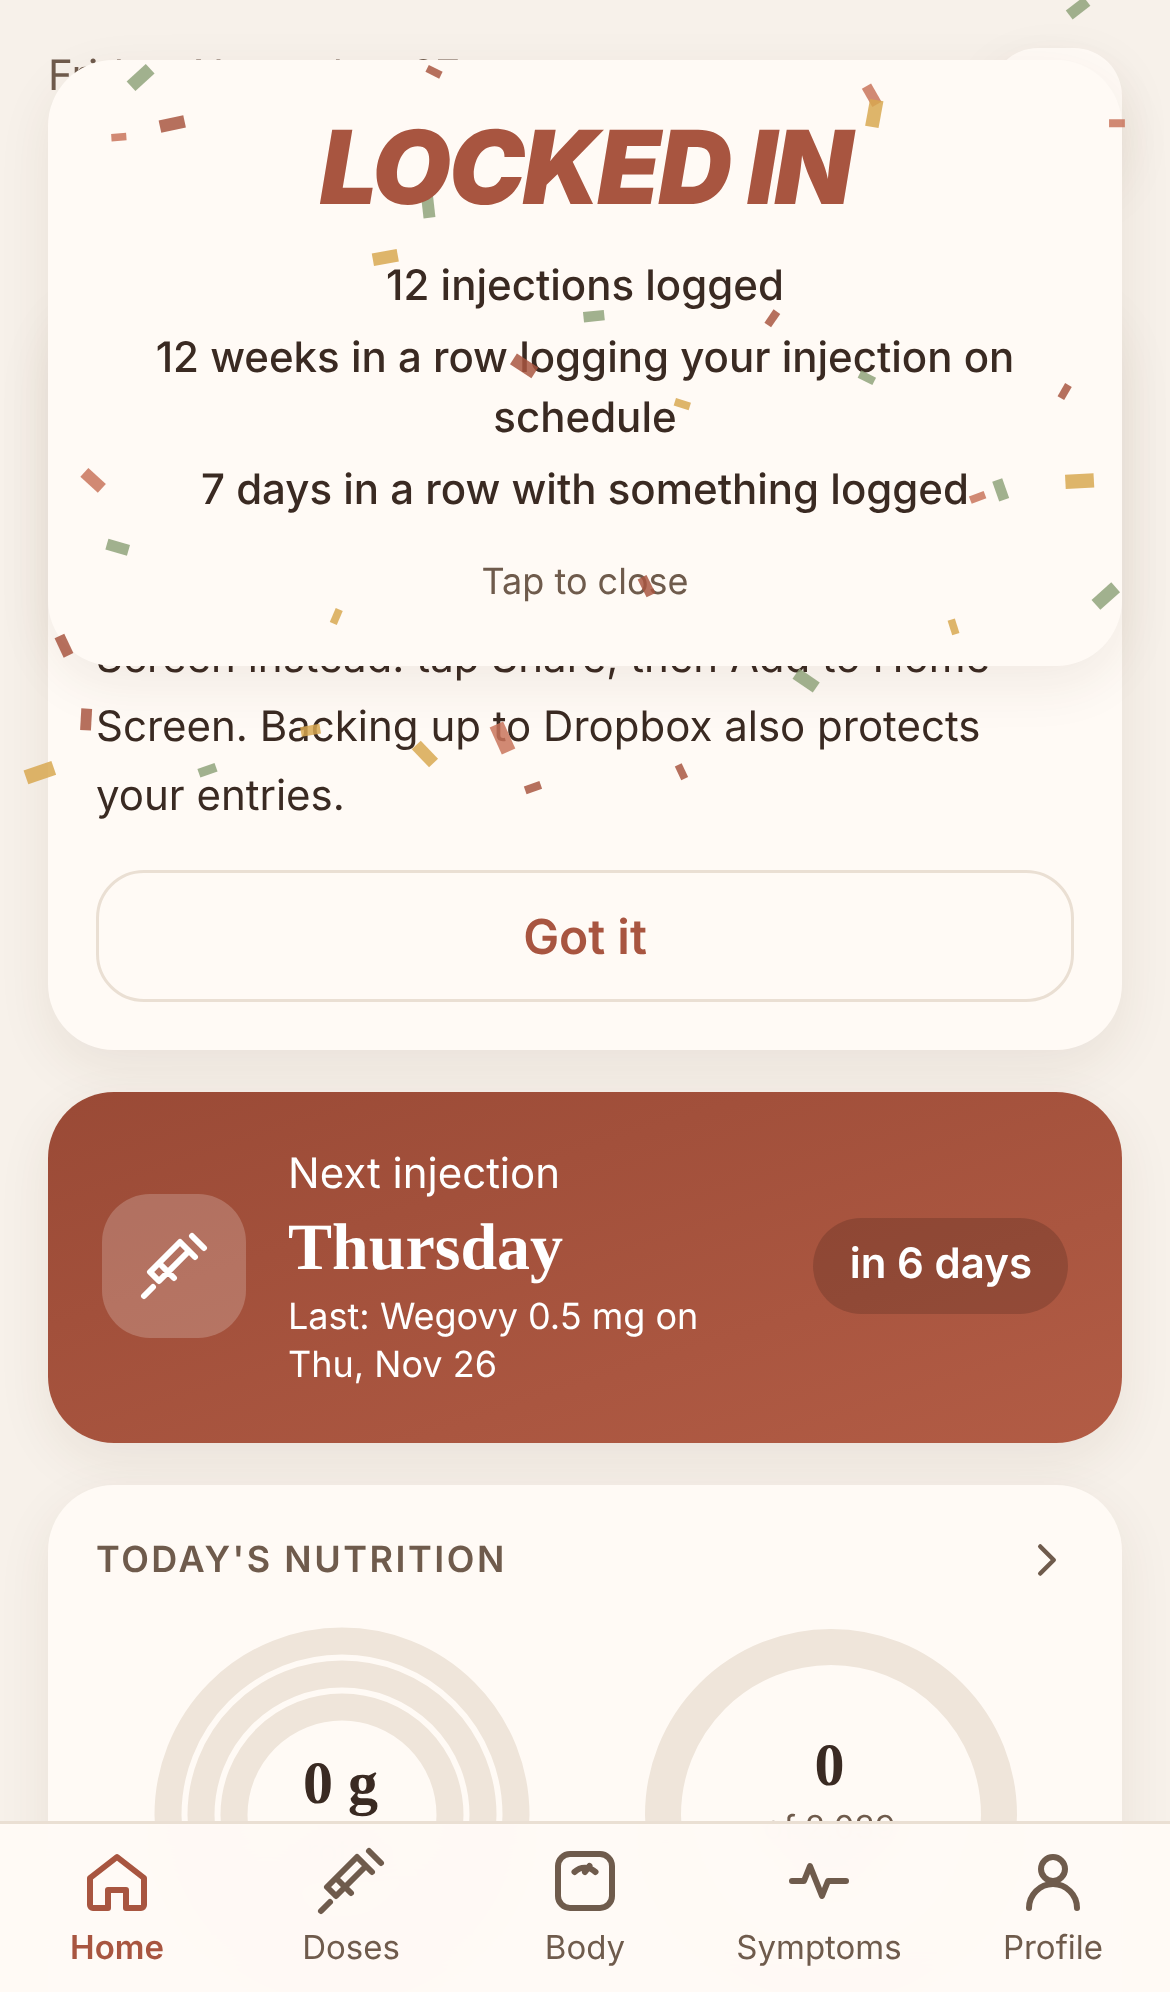
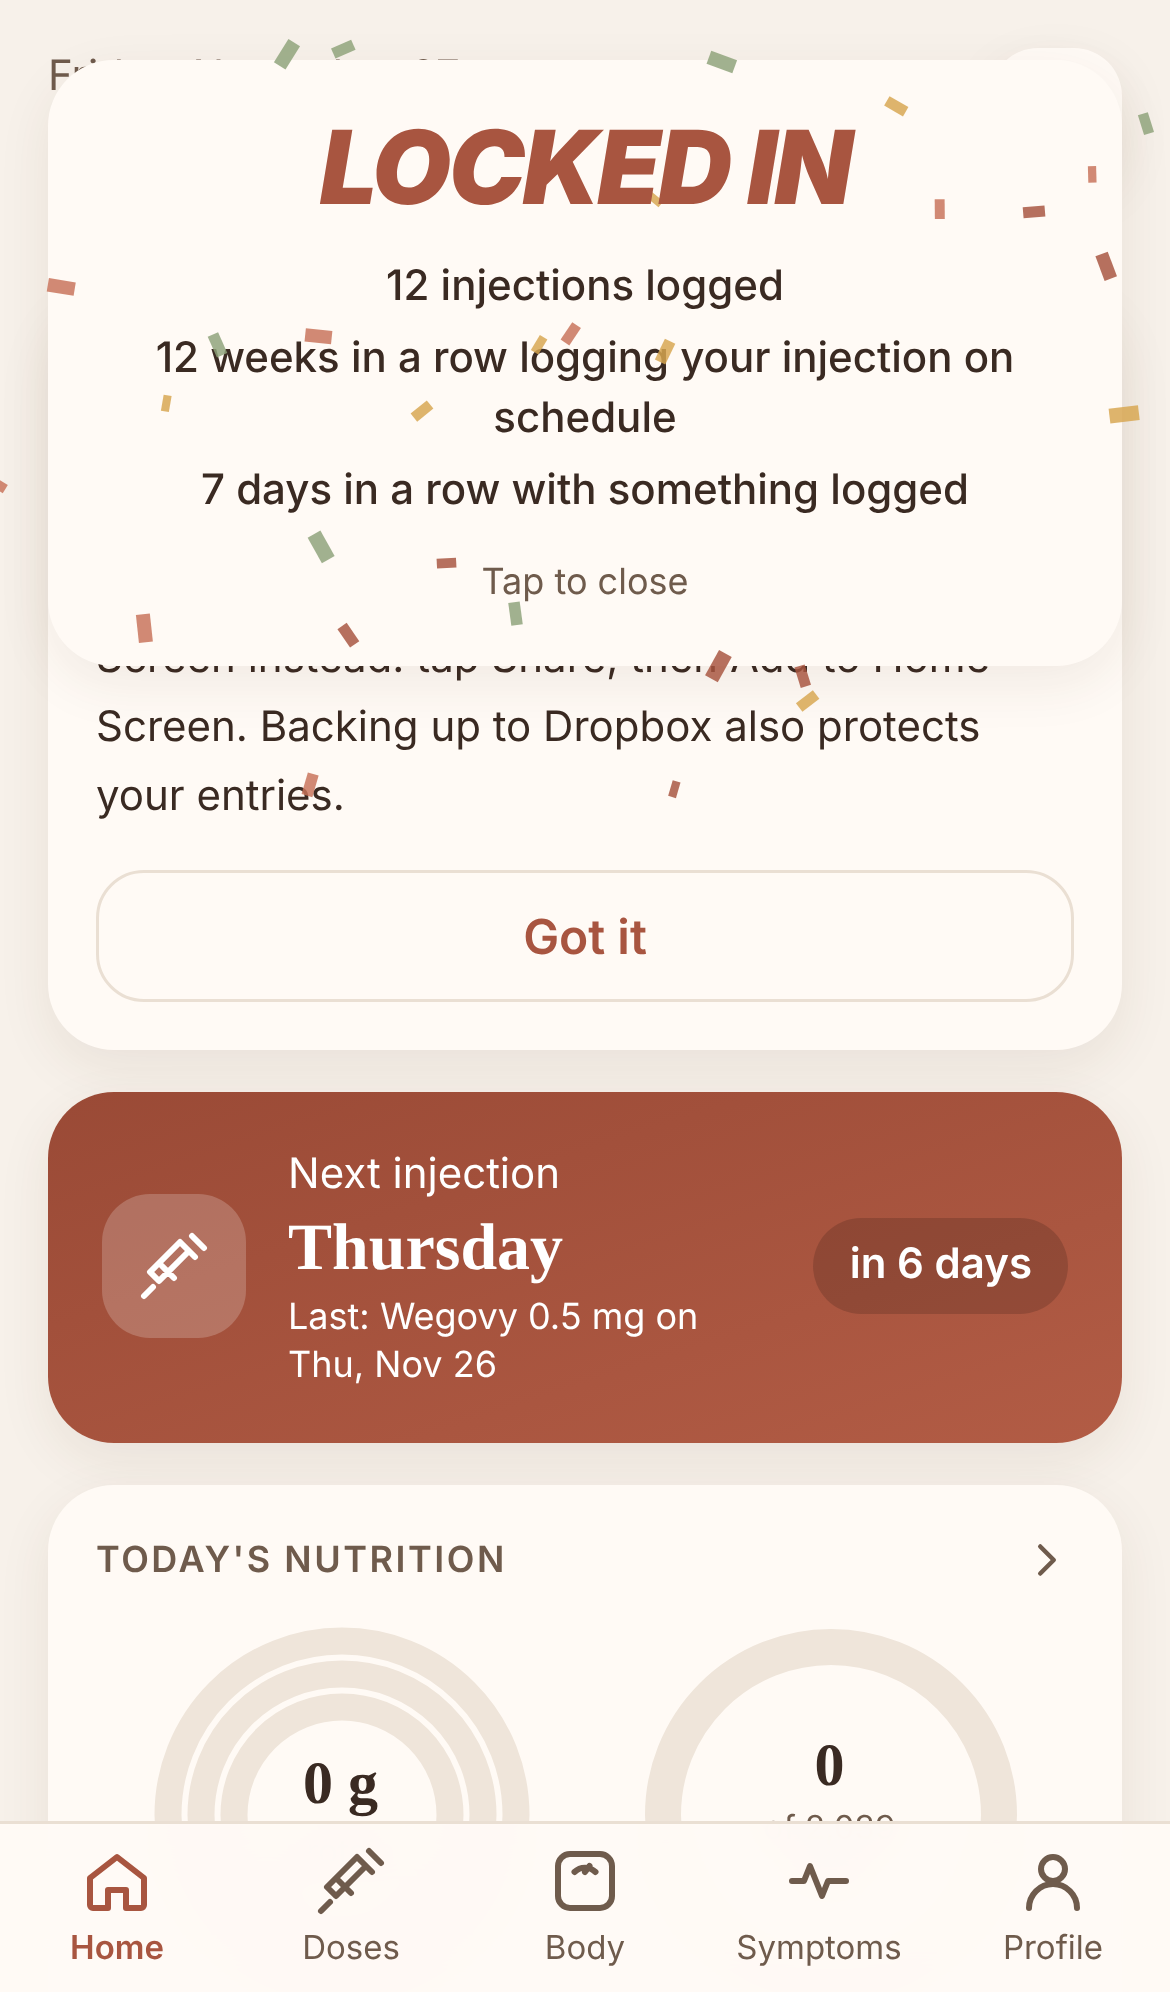
Workflow 12: code review fixes and build notes
Claude-Session: https://claude.ai/code/session_01E8m8svjFKtLT3zDarJmxVH

diff --git a/src/lib/milestoneCheck.ts b/src/lib/milestoneCheck.ts
@@ -2,11 +2,12 @@
 // records it before anything is shown (so nothing shows twice), and returns the lines for the pop-up.
 import { db, type Profile } from '../db/db';
 import { dayKey } from './dates';
-import { capRecords, computeEarned, firstArrivalLines, isRecorded, linesToShow, mergeRecords, titleFor, toRecords, type MilestoneData, type ShowLine } from './milestones';
+import { capRecords, computeEarned, dropEndedRuns, firstArrivalLines, isRecorded, linesToShow, mergeRecords, titleFor, toRecords, type MilestoneData, type ShowLine } from './milestones';
 
 export interface Celebration { title: string; lines: ShowLine[] }
 
 let busy: Promise<unknown> = Promise.resolve();
+let quiet = false; // true while a restore is under way: checks record but never show
 /** One check at a time, so two quick saves can never show the same milestone twice. */
 const serial = <T>(fn: () => Promise<T>): Promise<T> => { const next = busy.then(fn, fn); busy = next.catch(() => undefined); return next; };
 
@@ -32,21 +33,28 @@ async function check(show: boolean, now: Date): Promise<Celebration | null> {
     lines = linesToShow(fresh, profile, weightOff || startChanged);
     record = mergeRecords(profile.milestonesEarned, toRecords(fresh, today));
   }
-  const changes: Partial<Profile> = { milestonesEarned: capRecords(record), milestoneStartKg: profile.startWeightKg };
+  const changes: Partial<Profile> = { milestonesEarned: capRecords(dropEndedRuns(record, earned)), milestoneStartKg: profile.startWeightKg };
   await db.profile.update('me', changes);
-  if (!show || profile.showMilestones === false || !lines.length) return null;
+  if (!show || quiet || profile.showMilestones === false || !lines.length) return null;
   return { title: titleFor(Math.max(...lines.map((l) => l.step))), lines };
 }
 
 /** Checks for new milestones and records them; returns what to show, if anything. Never throws. */
 export const checkMilestones = (now = new Date()): Promise<Celebration | null> => serial(() => check(true, now)).catch(() => null);
 
-/** After a restore: keep this phone's record (merged with the backup's) and record everything the restored data reaches, silently. */
+/** Before a restore replaces the data: no pop-up may show until `afterRestore` has run. */
+export const beforeRestore = () => { quiet = true; };
+
+/** After a restore: keep this phone's record (merged with the backup's) and record everything the restored data reaches, silently. Never throws. */
 export async function afterRestore(deviceRecord: Profile['milestonesEarned']): Promise<void> {
-  await serial(async () => {
-    const p = await db.profile.get('me');
-    if (!p) return;
-    await db.profile.update('me', { milestonesEarned: capRecords(mergeRecords(deviceRecord, p.milestonesEarned ?? [])) });
-    await check(false, new Date());
-  });
+  try {
+    await serial(async () => {
+      const p = await db.profile.get('me');
+      if (!p) return;
+      await db.profile.update('me', { milestonesEarned: capRecords(mergeRecords(deviceRecord, p.milestonesEarned ?? [])) });
+      await check(false, new Date());
+    });
+  } catch { /* the restore itself has worked; milestones catch up at the next check */ } finally {
+    quiet = false;
+  }
 }

diff --git a/src/lib/milestones.test.ts b/src/lib/milestones.test.ts
@@ -1,6 +1,6 @@
 import { describe, expect, it } from 'vitest';
 import { addDays, dayKey, fromDayKey } from './dates';
-import { computeEarned, firstArrivalLines, isRecorded, LADDERS, linesToShow, mergeRecords, milestoneText, monthsSince, stepsUpTo, titleFor, toRecords, type MilestoneData } from './milestones';
+import { computeEarned, dropEndedRuns, firstArrivalLines, isRecorded, LADDERS, linesToShow, mergeRecords, milestoneText, monthsSince, stepsUpTo, titleFor, toRecords, type MilestoneData } from './milestones';
 
 const empty = (): MilestoneData => ({ injections: [], weights: [], symptoms: [], foodLog: [], water: [] });
 const TODAY = '2026-11-27'; // a Friday
@@ -122,6 +122,13 @@ describe('showing', () => {
     d.weights = [{ date: day(0), weightKg: 90 }];
     const e = computeEarned(d, { units: 'metric', startWeightKg: 100 }, TODAY);
     expect(linesToShow(e, {}, true).some((l) => l.series === 'wabs' || l.series === 'wpct')).toBe(false);
+  });
+  it('records from ended streak runs are dropped; totals and the current run stay', () => {
+    const d = empty();
+    d.water = [0, 1, 2].map((n) => ({ date: day(n) }));
+    const earned = computeEarned(d, {}, TODAY);
+    const rec = [{ key: 'days-1', on: day(30) }, { key: 'dstreak-7', on: day(20), run: day(26) }, { key: 'dstreak-3', on: TODAY, run: day(2) }, { key: 'wis-2', on: day(40), run: day(50) }];
+    expect(dropEndedRuns(rec, earned).map((r) => r.key)).toEqual(['days-1', 'dstreak-3']);
   });
   it('merging keeps the earliest date per key and run', () => {
     expect(mergeRecords([{ key: 'inj-1', on: '2026-11-20' }], [{ key: 'inj-1', on: '2026-11-01' }, { key: 'inj-4', on: '2026-11-21' }])).toEqual([

diff --git a/src/lib/milestones.ts b/src/lib/milestones.ts
@@ -146,14 +146,21 @@ export function mergeRecords(a: MilestoneRecord[] = [], b: MilestoneRecord[] = [
   return [...m.values()];
 }
 
-export const MAX_RECORDS = 500;
-/** Keeps the record within its cap: ended streak runs go first, oldest first. */
-export function capRecords(record: MilestoneRecord[]): MilestoneRecord[] {
-  if (record.length <= MAX_RECORDS) return record;
-  const streaky = record.filter((r) => r.run).sort((x, y) => x.on.localeCompare(y.on));
-  const drop = new Set(streaky.slice(0, record.length - MAX_RECORDS));
-  return record.filter((r) => !drop.has(r));
+/** Streak records from runs that have ended are never needed again (a new run earns its steps afresh), so they are dropped. */
+export function dropEndedRuns(record: MilestoneRecord[], earned: Earned[]): MilestoneRecord[] {
+  const runStart = new Map<string, string>();
+  for (const e of earned) if (e.run) runStart.set(e.series, e.run);
+  return record.filter((r) => {
+    if (!r.run) return true;
+    const start = runStart.get(r.key.slice(0, r.key.indexOf('-')));
+    return !!start && r.run >= start;
+  });
 }
+
+export const MAX_RECORDS = 500;
+/** Keeps the record within its cap (backups refuse more): oldest first, never the newest 500. */
+export const capRecords = (record: MilestoneRecord[]): MilestoneRecord[] =>
+  record.length <= MAX_RECORDS ? record : [...record].sort((x, y) => x.on.localeCompare(y.on)).slice(record.length - MAX_RECORDS);
 
 export interface ShowLine { series: SeriesId; n: number; step: number; text: string }
 

diff --git a/src/lib/useMilestones.ts b/src/lib/useMilestones.ts
@@ -11,14 +11,18 @@ import { titleFor } from './milestones';
 export function useMilestones(ready: boolean): [Celebration | null, () => void] {
   const [shown, setShown] = useState<Celebration | null>(null);
   // Changes whenever an injection, weigh-in, symptom, food or water entry is added or removed.
-  const sig = useLiveQuery(async () => (await Promise.all([db.injections.count(), db.weights.count(), db.symptoms.count(), db.foodLog.count(), db.water.count()])).join(','), []);
+  // Also the Profile starting weight, so an edit there is synced (silently) straight away and the next weigh-in can show.
+  const sig = useLiveQuery(async () => [...(await Promise.all([db.injections.count(), db.weights.count(), db.symptoms.count(), db.foodLog.count(), db.water.count()])), (await db.profile.get('me'))?.startWeightKg].join(','), []);
   const run = useCallback(() => {
     void checkMilestones().then((c) => {
       if (!c) return;
       // A pop-up already open gains the new lines (and starts its 5 seconds again).
       setShown((cur) => {
         if (!cur) return c;
-        const lines = [...cur.lines, ...c.lines];
+        // Keep one line per series, the highest.
+        const bySeries = new Map(cur.lines.map((l) => [l.series, l]));
+        for (const l of c.lines) if (!bySeries.has(l.series) || l.n > bySeries.get(l.series)!.n) bySeries.set(l.series, l);
+        const lines = [...bySeries.values()];
         return { title: titleFor(Math.max(...lines.map((l) => l.step))), lines };
       });
     });

diff --git a/src/components/MilestonePopup.tsx b/src/components/MilestonePopup.tsx
@@ -21,13 +21,14 @@ export default function MilestonePopup({ celebration, onClose }: { celebration: 
     <div className={`fixed inset-0 z-50 ${leaving ? 'milestone-leave' : ''}`} onClick={onClose}>
       <canvas ref={canvas} aria-hidden="true" className="pointer-events-none absolute inset-0 size-full" />
       <div className="mx-auto mt-[max(1.25rem,env(safe-area-inset-top))] max-w-md px-4">
-        <div role="status" aria-live="polite" aria-label="Milestone reached" className="milestone-card rounded-card bg-surface p-5 text-center shadow-soft">
+        <div role="status" aria-live="polite" className="milestone-card rounded-card bg-surface p-5 text-center shadow-soft">
+          <p className="sr-only">Milestone reached</p>
           <p className="milestone-title font-sans text-[34px] leading-none font-black tracking-tight text-accent uppercase italic">{celebration.title}</p>
           <ul className="mt-3 space-y-1 text-sm font-medium">
             {celebration.lines.map((l) => <li key={`${l.series}-${l.n}`}>{l.text}</li>)}
           </ul>
           <p className="mt-3 text-xs text-muted">Tap to close</p>
-          <button type="button" className="sr-only" onClick={onClose}>Close</button>
+          <button type="button" className="sr-only focus:not-sr-only focus:mt-2 focus:underline" onClick={onClose}>Close</button>
         </div>
       </div>
     </div>

diff --git a/src/lib/backup/run.ts b/src/lib/backup/run.ts
@@ -1,5 +1,5 @@
 // Backup and restore, tying the pure modules to the phone's database and Dropbox (workflow 10a).
-import { afterRestore } from '../milestoneCheck';
+import { afterRestore, beforeRestore } from '../milestoneCheck';
 import { db, SCHEMA_VERSION, UI_KEYS, type BackupState } from '../../db/db';
 import { deleteFile, downloadFile, DropboxError, listFiles, PKCE_KEY, refreshAccess, revoke, uploadFile, type DropboxFile } from './dropbox';
 import { BackupError, decryptBackup, decryptWithPassword, deriveKey, encryptBackup, keyFits, MAX_FILE_BYTES, PBKDF2_ITERATIONS, randomSalt, readHeader } from './format';
@@ -148,6 +148,7 @@ export async function applyRestore(p: Payload): Promise<void> {
   running = true;
   try {
     const deviceRecord = (await db.profile.get('me'))?.milestonesEarned;
+    beforeRestore();
     await restoreTables(p);
     await afterRestore(deviceRecord); // milestones already shown on this phone never show again (workflow 12)
   } finally {

diff --git a/src/components/confetti.ts b/src/components/confetti.ts
@@ -10,7 +10,7 @@ export function confettiBurst(canvas: HTMLCanvasElement, ms = 1500): () => void 
   const w = (canvas.width = canvas.clientWidth * devicePixelRatio);
   const h = (canvas.height = canvas.clientHeight * devicePixelRatio);
   const s = devicePixelRatio;
-  const bits = Array.from({ length: 60 }, (_, i) => ({
+  const bits = Array.from({ length: 40 }, (_, i) => ({
     x: w / 2, y: h * 0.18, vx: (Math.random() - 0.5) * 14 * s, vy: (-Math.random() * 10 - 4) * s,
     r: Math.random() * Math.PI, vr: (Math.random() - 0.5) * 0.4, c: COLOURS[i % COLOURS.length], size: (5 + Math.random() * 5) * s,
   }));

diff --git a/src/index.css b/src/index.css
@@ -41,5 +41,5 @@ body { -webkit-text-size-adjust: 100%; -webkit-tap-highlight-color: transparent;
 @keyframes pop-in { from { transform: translateY(-12px); opacity: 0; } to { transform: none; opacity: 1; } }
 .milestone-card { animation: pop-in 0.25s ease-out; }
 .milestone-title { animation: slam 0.45s cubic-bezier(0.2, 0.9, 0.3, 1.2) both; }
-.milestone-leave { transition: opacity 0.4s; opacity: 0; }
+.milestone-leave { transition: opacity 0.4s; opacity: 0; pointer-events: none; }
 @media (prefers-reduced-motion: reduce) { .milestone-leave { transition: none; } }

diff --git a/docs/workflows/12-milestone-celebrations.md b/docs/workflows/12-milestone-celebrations.md
@@ -1,5 +1,5 @@
 # Workflow 12 — Milestone celebrations
-Status: Approved
+Status: Built
 Milestone: Post-plan add-on (not in PLAN.md §5), owner idea I-63. Needs only data already stored.
 
 ## Owner decisions at approval (2026-11-27) — these override anything below
@@ -186,3 +186,39 @@ By hand: one mocked iPhone pass (390x844) with two screenshots, the pop-up with 
 
 ## Approval
 - [x] Approved by owner — 2026-11-27, with the decisions at the top of this document — date:
+
+## Build notes (2026-11-27)
+- **Built as approved,** with the owner decisions at the top of this document.
+- **New files:**
+  - `src/lib/milestones.ts` (pure)
+  - `src/lib/milestoneCheck.ts` (database glue; checks run one at a time)
+  - `src/lib/useMilestones.ts`
+  - `src/components/MilestonePopup.tsx`
+  - `src/components/confetti.ts` (40 pieces, no library)
+  - a Settings "Milestones" card
+- **Extra safety:**
+  - `saveProfile` now runs in a transaction.
+  - The Profile screen no longer writes back old copies of fields other screens own: the milestone record, the switches and the report's questions draft.
+- **Starting-weight edits:** a change to the starting weight triggers a silent check straight away, so the next weigh-in can show its weight milestone.
+- **Code review fixes:**
+  - The starting-weight sync above.
+  - Restore is now "quiet". No pop-up can show while a restore is under way, and a milestone hiccup can't make a finished restore look failed.
+  - Records from ended streak runs are dropped, so the list stays small.
+  - The 500 cap keeps the newest records.
+  - Lines merged into an open pop-up are de-duplicated, one per series.
+  - The fading pop-up no longer blocks taps.
+  - The screen reader announces "Milestone reached" plus the lines.
+  - The Close button is visible when focused.
+- **Known limit:** changing the injection weekday can, rarely, re-show an on-schedule streak step already seen in the current run. This is accepted as rare.
+- **Pop-up taps:** the full-screen tap-to-close layer catches one tap during the 5 seconds, as the owner decided ("click away").
+- **Checks:**
+  - 342 tests pass and the build passes.
+  - Mocked iPhone runs passed for:
+    - first arrival
+    - a new milestone after logging
+    - tap-away close
+    - auto-close at 5 seconds
+    - no repeat after reload
+    - Reduce Motion
+    - Dropbox backup and restore
+  - No CSP violations and no errors.
